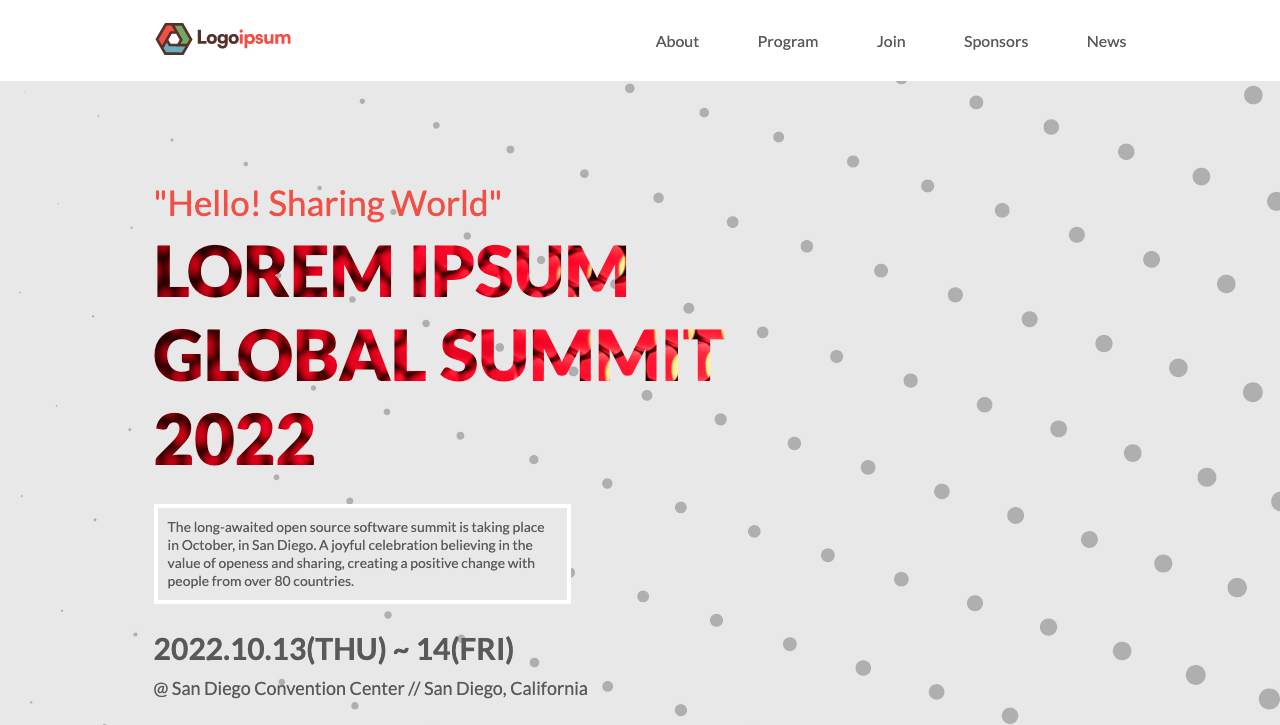
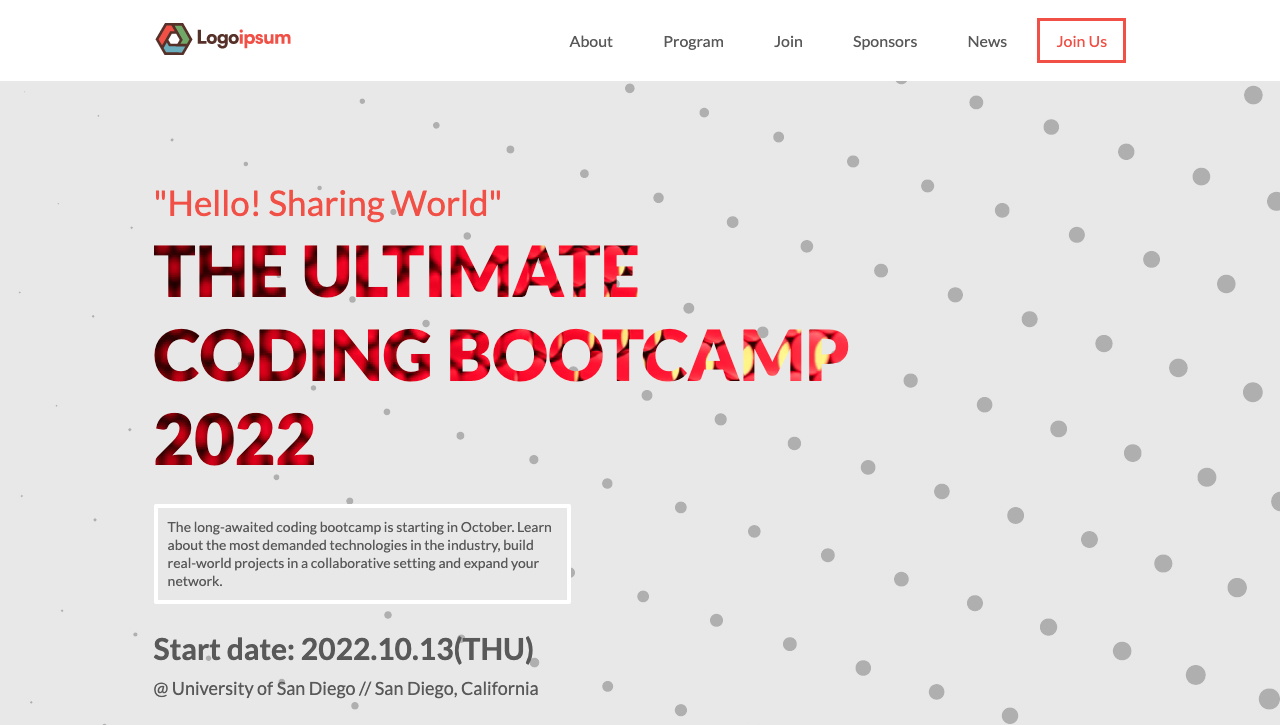
Edit README.md

diff --git a/README.md b/README.md
@@ -1,8 +1,8 @@
 ![](https://img.shields.io/badge/Microverse-blueviolet)
 
-# Conference Webpage
+# Coding Bootcamp Webpage
 
-> Conference webpage mockup. Made for the first capstone project of Microverse.
+> Coding Bootcamp webpage mockup. Made for the first capstone project of Microverse.
 
 ![screenshot](desktop-screenshot.png)
 
@@ -15,6 +15,31 @@
 ## Live Demo
 
 Live demo hosted on GitHub Pages // [Live Demo Link](https://piero-vic.github.io/conference-website/)
+
+## Getting Started
+If you want to run the webpage on your local machine you can always clone the repo and open `index.html` on your favorite browser.
+
+1. Clone the repo.
+
+```zsh
+git clone [repo link] [directory]
+```
+
+2. Enter the directory.
+
+```zsh
+cd [directory]
+```
+
+3. Open the main file. (Use `open` on macOS and `xdg-open` on Linux)
+
+```zsh
+  $ open index.html
+```
+
+```zsh
+  $ xdg-open index.html
+```
 
 ## Author(s)
 
